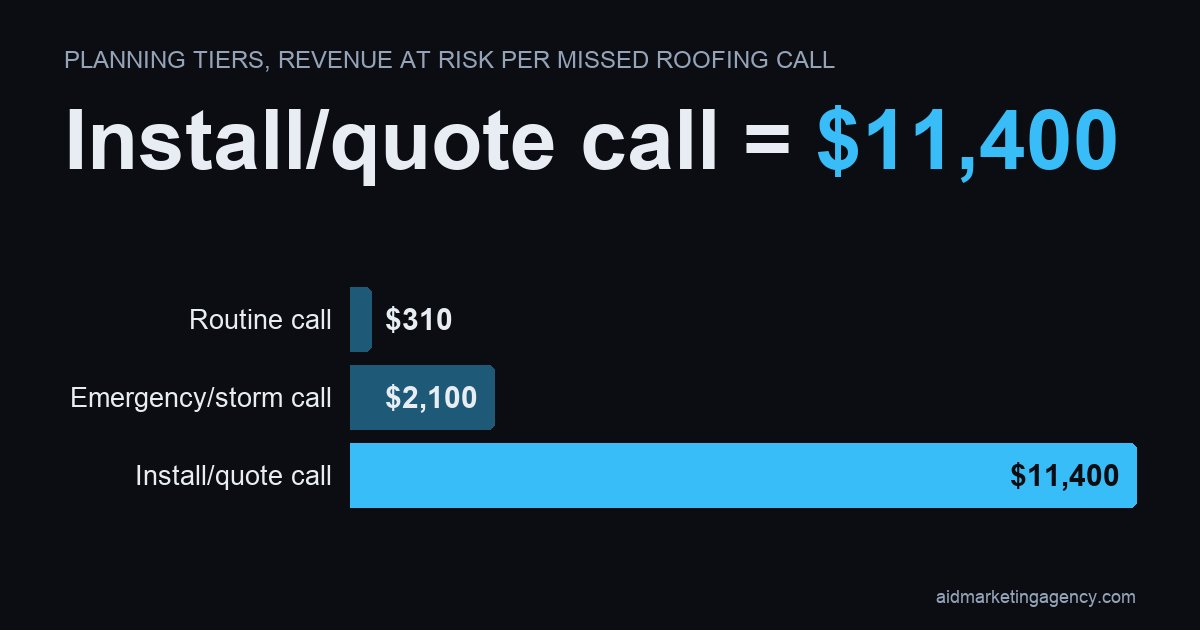
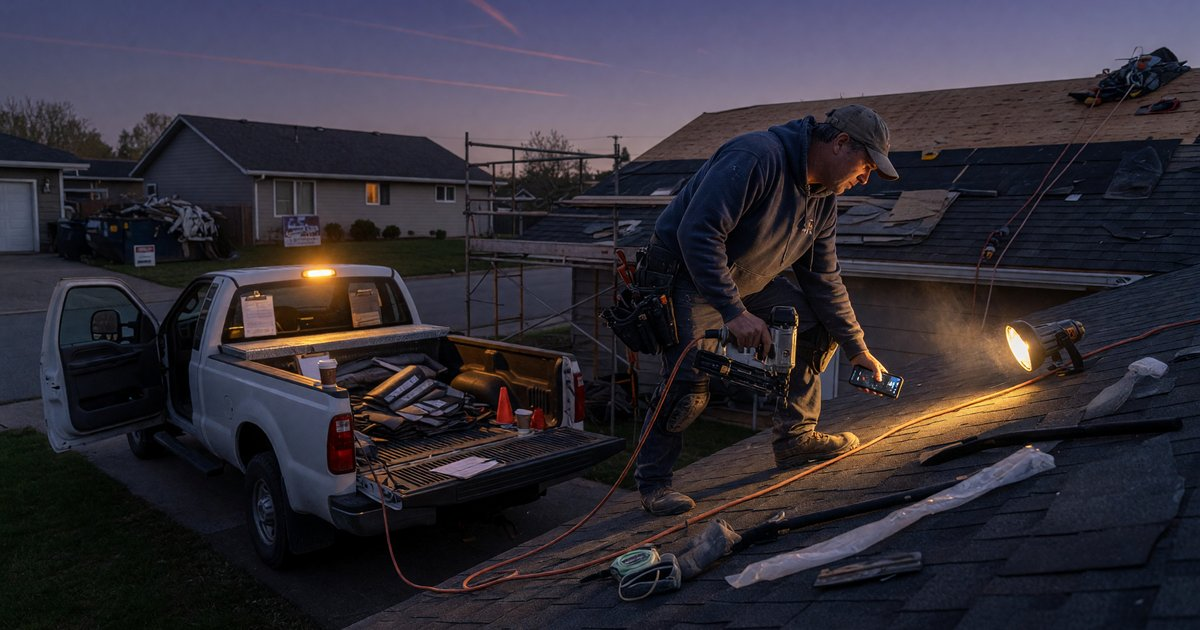
blog: republish a0/a1/a2 with AI imagery + in-body charts
Image doctrine v2 (Ryan 2026-07-22): AI-generated heroes (dark cinematic,
contractor context) replace charts above the H1; charts now render as
in-body figures after their stats sections; all Pixabay stock removed.

diff --git a/blog/a0-ai-speed-to-lead-for-contractors-the-2026-playbo/index.html b/blog/a0-ai-speed-to-lead-for-contractors-the-2026-playbo/index.html
@@ -11,16 +11,16 @@
     <meta property="og:title" content="AI Speed-to-Lead for Contractors: 2026 Playbook">
     <meta property="og:description" content="The 2026 benchmark: respond to leads in under 5 minutes. Here's how AI text-back systems hit sub-30-second replies, and what it actually costs to build one.">
     <meta property="og:url" content="https://aidmarketingagency.com/blog/a0-ai-speed-to-lead-for-contractors-the-2026-playbo">
-    <meta property="og:image" content="https://aidmarketingagency.com/assets/headshots/ryan-casual-rooftop.jpg">
+    <meta property="og:image" content="https://aidmarketingagency.com/assets/blog/a0-ai-speed-to-lead-for-contractors-the-2026-playbo-hero.jpg">
     <meta name="twitter:card" content="summary_large_image">
     <meta name="twitter:title" content="AI Speed-to-Lead for Contractors: 2026 Playbook">
     <meta name="twitter:description" content="The 2026 benchmark: respond to leads in under 5 minutes. Here's how AI text-back systems hit sub-30-second replies, and what it actually costs to build one.">
-    <meta name="twitter:image" content="https://aidmarketingagency.com/assets/headshots/ryan-casual-rooftop.jpg">
+    <meta name="twitter:image" content="https://aidmarketingagency.com/assets/blog/a0-ai-speed-to-lead-for-contractors-the-2026-playbo-hero.jpg">
     <link rel="preconnect" href="https://fonts.googleapis.com">
     <link rel="preconnect" href="https://fonts.gstatic.com" crossorigin>
     <link href="https://fonts.googleapis.com/css2?family=Outfit:wght@400;600;700;800&family=Inter:wght@300;400;500;600;700;800&display=swap" rel="stylesheet">
     <link rel="stylesheet" href="/style.css">
-    <script type="application/ld+json">{"@context": "https://schema.org", "@type": "BlogPosting", "headline": "AI Speed-to-Lead for Contractors: The 2026 Playbook", "description": "The 2026 benchmark: respond to leads in under 5 minutes. Here's how AI text-back systems hit sub-30-second replies, and what it actually costs to build one.", "image": "https://aidmarketingagency.com/assets/headshots/ryan-casual-rooftop.jpg", "author": {"@type": "Person", "name": "Ryan McNally", "jobTitle": "Founder, AID Marketing Agency", "worksFor": {"@type": "Organization", "name": "AID Marketing Agency"}, "sameAs": ["https://www.linkedin.com/in/ryan-mcnally-7930421bb"], "url": "https://aidmarketingagency.com/about-ryan"}, "datePublished": "2026-07-21T20:19:20.204086+00:00", "dateModified": "2026-07-22", "mainEntityOfPage": {"@type": "WebPage", "@id": "https://aidmarketingagency.com/blog/a0-ai-speed-to-lead-for-contractors-the-2026-playbo"}}</script>
+    <script type="application/ld+json">{"@context": "https://schema.org", "@type": "BlogPosting", "headline": "AI Speed-to-Lead for Contractors: The 2026 Playbook", "description": "The 2026 benchmark: respond to leads in under 5 minutes. Here's how AI text-back systems hit sub-30-second replies, and what it actually costs to build one.", "image": "https://aidmarketingagency.com/assets/blog/a0-ai-speed-to-lead-for-contractors-the-2026-playbo-hero.jpg", "author": {"@type": "Person", "name": "Ryan McNally", "jobTitle": "Founder, AID Marketing Agency", "worksFor": {"@type": "Organization", "name": "AID Marketing Agency"}, "sameAs": ["https://www.linkedin.com/in/ryan-mcnally-7930421bb"], "url": "https://aidmarketingagency.com/about-ryan"}, "datePublished": "2026-07-21T20:19:20.204086+00:00", "dateModified": "2026-07-22", "mainEntityOfPage": {"@type": "WebPage", "@id": "https://aidmarketingagency.com/blog/a0-ai-speed-to-lead-for-contractors-the-2026-playbo"}}</script>
 <script type="application/ld+json">{"@context": "https://schema.org", "@type": "FAQPage", "mainEntity": [{"@type": "Question", "name": "What is considered a good speed-to-lead time for contractors in 2026?", "acceptedAnswer": {"@type": "Answer", "text": "Under 5 minutes is the working benchmark for 2026, with the biggest conversion lift happening inside the first 60 seconds (Velocify, 2013). Responding within 1 minute boosts conversion by 391% compared to slower brackets (Velocify, 2013), and leads called within 5 minutes are 21 times more likely to qualify than leads reached after 30 minutes (Lead Response Management Study, 2007). Anything past that 30-minute mark puts you at a steep disadvantage against faster competitors."}}, {"@type": "Question", "name": "Can AI really respond to leads faster than my office staff?", "acceptedAnswer": {"@type": "Answer", "text": "Yes, and it is not close. AI text-back systems are built to deliver a first response within 30 seconds of a lead coming in, day or night, which no human dispatcher can match around the clock. The AI is not replacing your team's judgment on the call, it is making sure the lead is still warm when your team gets to it."}}, {"@type": "Question", "name": "How much does an AI speed-to-lead system cost for a small contracting business?", "acceptedAnswer": {"@type": "Answer", "text": "Cost varies by platform and lead volume, and most of the flashy ROI stats in this niche come from vendors selling the tools, so treat precise figures with suspicion. What the independent research does show is that the conversion gains sit almost entirely in the first minutes of response (Velocify, 2013), and across the contractor accounts we run, most contractors recover the tool's cost within the first few extra jobs it saves from going cold."}}, {"@type": "Question", "name": "Do AI chatbots actually generate new leads, or just respond faster to existing ones?", "acceptedAnswer": {"@type": "Answer", "text": "Mostly the latter, and this is the distinction most contractors miss. AI-driven discovery, meaning homeowners finding a contractor directly through an AI platform, is still a tiny sliver of home service lead volume in our experience across the accounts we run. What AI does very well is capture and speed up leads you already generated through ads, search, or referrals, which is where the real conversion lift shows up."}}, {"@type": "Question", "name": "What happens if I don't implement AI speed-to-lead this year?", "acceptedAnswer": {"@type": "Answer", "text": "You keep competing on price and reputation against contractors who are already responding in seconds instead of hours. Only 38% of contractors report measurable AI impact so far, up from 17% in 2025 (ServiceTitan, 2026), which means the gap between adopters and everyone else is widening fast rather than leveling off. Every quarter you wait is a quarter of leads going to whoever texted back first."}}]}</script>
     <style>
         .post-hero { padding: 7.5rem 0 2rem; }
@@ -121,7 +121,7 @@
 
     <section class="post-hero">
         <div class="container post-hero-inner">
-            
+            <img class="post-hero-img" src="/assets/blog/a0-ai-speed-to-lead-for-contractors-the-2026-playbo-hero.jpg" alt="Editorial photo, contractor tradesman context: AI Speed-to-Lead for Contractors: The 2026 Playbook">
             <h1>AI Speed-to-Lead for Contractors: The 2026 Playbook</h1>
             <p class="post-dates">Published July 21, 2026 &middot; Updated July 22, 2026</p>
         </div>
@@ -135,7 +135,7 @@
                 <p><strong>The speed-to-lead benchmark for contractors in 2026 is under 5 minutes.</strong> Respond within 1 minute and conversion rates jump 391% (<a href="https://natlawreview.com/article/study-reveals-best-contact-strategies-optimal-lead-conversion">Velocify's Ultimate Contact Strategy study, 2013</a>). Wait past 30 minutes and your odds of even qualifying that same lead drop 21 times versus a 5-minute response (<a href="https://www.leadresponsemanagement.org/lrm_study/">Lead Response Management Study, 2007</a>). AI text-back systems now close that window automatically, delivering sub-30-second first responses around the clock without adding a single hire. Still, only 38% of contractors report measurable AI business impact so far (ServiceTitan, 2026), which means most of the trade is still leaving jobs on the table for whoever calls back first. This playbook walks through exactly how to build an AI speed-to-lead system, what it costs, and the one mistake that quietly wrecks more ROI than a slow phone ever did: confusing AI that captures leads faster with AI that supposedly generates them out of thin air.</p>
 <h2 id="why-speed-to-lead-is-the-make-or-break-metric-for-contractor">Why Speed-to-Lead Is the Make-or-Break Metric for Contractors in 2026</h2>
 <p>Here's the plain version: a homeowner with a roof leak or a failed HVAC unit does not fill out one form. They fill out four or five, on four or five different contractor sites, inside about ten minutes. Whoever calls or texts back first usually gets the estimate appointment, and the estimate appointment is usually the job.</p>
-<figure class="post-inbody-img"><img src="/assets/blog/speed-lead-make-a0-1.jpg" alt="Why Speed to Lead Is the Make or Break Metric for Contractors in 2026: Here's the plain version: a homeowner with a roof leak or a failed HVAC unit doe" loading="lazy" width="960" height="540"><figcaption>Photo by suju-foto on Pixabay (https://pixabay.com/photos/squirrel-animal-rodent-wilderness-10379325/)</figcaption></figure>
+<figure class="post-inbody-img"><img src="/assets/blog/a0-ai-speed-to-lead-for-contractors-the-2026-playbo-section-1.jpg" alt="Why Speed to Lead Is the Make or Break Metric for Contractors in 2026: Here's the plain version: a homeowner with a roof leak or a failed HVAC unit doe" loading="lazy" width="960" height="540"></figure>
 
 <p>That is not a hunch, it is a measurable pattern now, and it is the reason speed-to-lead has become the metric contractors track ahead of ad spend, ahead of close rate, sometimes ahead of everything else. In 2026 the working benchmark is under 5 minutes, built on lead-response research that has held up for nearly two decades (Lead Response Management Study, 2007). Anything slower and you are competing on price and reputation alone, against someone who already has the appointment booked.</p>
 <h2 id="the-numbers-391-conversion-lift-21x-qualification-odds-and-t">The Numbers: 391% Conversion Lift, 21x Qualification Odds, and the 5-Minute Rule</h2>
@@ -177,7 +177,7 @@
 <p>These systems connect directly to your phone lines and lead sources and are built specifically to hit that sub-30-second window. Across the contractor accounts we run, wiring the first response this way books meaningfully more jobs off the same lead volume, simply because fewer leads go cold waiting on a human. The AI is not closing the sale. It is making sure the sale is still available to close.</p>
 <h2 id="step-1-auditing-your-current-lead-response-time">Step 1: Auditing Your Current Lead Response Time</h2>
 <p>Before you buy anything, find out where you actually stand. Pull your call logs and form-fill timestamps for the last 30 days and calculate the gap between lead-in and first human contact. Better yet, submit a form on your own website at 9pm on a Tuesday and time your own response.</p>
-<figure class="post-inbody-img"><img src="/assets/blog/step-auditing-current-a0-2.jpg" alt="Step 1: Auditing Your Current Lead Response Time: Before you buy anything, find out where you actually stand." loading="lazy" width="960" height="540"><figcaption>Photo by Feygrace on Pixabay (https://pixabay.com/photos/telecom-tower-technician-sunset-10383550/)</figcaption></figure>
+<figure class="post-inbody-img"><img src="/assets/blog/a0-ai-speed-to-lead-for-contractors-the-2026-playbo-section-2.jpg" alt="Step 1: Auditing Your Current Lead Response Time: Before you buy anything, find out where you actually stand." loading="lazy" width="960" height="540"></figure>
 
 <h3 id="the-speed-to-lead-response-time-calculator">The Speed-to-Lead Response Time Calculator</h3>
 <p>We built a simple framework we use in our own work to help contractors see what slow response is actually costing them. The formula:</p>
@@ -216,7 +216,7 @@
 <p>Start by connecting every lead source into one place: your main line, your web forms, your ad platforms. Build two or three response templates so the first text sounds like a person, not a robot reading a script. Set escalation rules so a human gets pinged the moment a lead replies with real interest. And build separate logic for after-hours, since a huge share of home service leads come in nights and weekends when nobody is at a desk.</p>
 <h2 id="step-4-integrating-ai-speed-to-lead-with-your-crm-and-estima">Step 4: Integrating AI Speed-to-Lead with Your CRM and Estimating Software</h2>
 <p>A text-back system that does not talk to your CRM just creates a second inbox nobody checks. Integration means the lead, the conversation, and the eventual estimate live in one record, so your team is not re-typing the same information three times. This is also where the AI adoption gap tends to open up: in our experience, contractors who only bolt on a chat widget see a fraction of the value of contractors who wire the whole pipeline together.</p>
-<figure class="post-inbody-img"><img src="/assets/blog/step-integrating-speed-a0-3.jpg" alt="Step 4: Integrating AI Speed to Lead with Your CRM and Estimating Software: A text-back system that does not talk to your CRM just creates a second inbox no" loading="lazy" width="960" height="540"><figcaption>Photo by CHAS_ARTIST on Pixabay (https://pixabay.com/photos/handshake-business-deal-10381741/)</figcaption></figure>
+<figure class="post-inbody-img"><img src="/assets/blog/a0-ai-speed-to-lead-for-contractors-the-2026-playbo-section-3.jpg" alt="Step 4: Integrating AI Speed to Lead with Your CRM and Estimating Software: A text-back system that does not talk to your CRM just creates a second inbox no" loading="lazy" width="960" height="540"></figure>
 
 <h2 id="step-5-training-your-team-to-work-alongside-ai-not-against-i">Step 5: Training Your Team to Work Alongside AI (Not Against It)</h2>
 <p>The biggest internal resistance to speed-to-lead tools is not technical, it is territorial. Office staff sometimes read an AI text-back system as a threat to their job instead of a tool that removes the worst part of it: sitting on hold with a lead at 6am. Frame it clearly for your team: AI handles the first response so nothing goes cold, and a human still closes every single deal. The AI's job ends the moment a real conversation starts.</p>
@@ -225,7 +225,7 @@
 <p>None of that is a promise of what your business will see. Run the exposure calculator above against your own job values; that number, not a vendor benchmark, is the one worth planning against.</p>
 <h2 id="ai-for-lead-capture-vs-ai-for-lead-generation-a-critical-dis">AI for Lead Capture vs. AI for Lead Generation: A Critical Distinction</h2>
 <p>This is the mistake that trips up more contractors than any technical setup issue: assuming AI is generating new demand when it is really just responding faster to demand you already paid for.</p>
-<figure class="post-inbody-img"><img src="/assets/blog/lead-capture-lead-a0-4.jpg" alt="AI for Lead Capture vs. AI for Lead Generation: A Critical Distinction: This is the mistake that trips up more contractors than any technical setup issu" loading="lazy" width="960" height="540"><figcaption>Photo by u_oa31csjt4n on Pixabay (https://pixabay.com/photos/farmer-rice-field-water-agriculture-10383138/)</figcaption></figure>
+<figure class="post-inbody-img"><img src="/assets/blog/a0-ai-speed-to-lead-for-contractors-the-2026-playbo-section-4.jpg" alt="AI for Lead Capture vs. AI for Lead Generation: A Critical Distinction: This is the mistake that trips up more contractors than any technical setup issu" loading="lazy" width="960" height="540"></figure>
 
 <p>AI text-back, chatbots, and CRM automation are lead capture tools. They make sure a lead you already generated through ads, referrals, or search does not go cold. That is where the 391% lift actually happens (Velocify, 2013).</p>
 <p>AI as a source of brand-new leads, meaning homeowners discovering and choosing a contractor directly through an AI platform, is a much smaller story so far. In our experience across the accounts we run, AI-driven discovery is still a tiny sliver of home service lead volume. Meanwhile, the businesses that get real results are the ones that layer AI properly into their existing funnel, because the AI is qualifying and speeding up what is already flowing in, not conjuring new demand from nowhere.</p>

diff --git a/blog/a2-ai-receptionist-vs-answering-service-vs-voicemai/index.html b/blog/a2-ai-receptionist-vs-answering-service-vs-voicemai/index.html
@@ -121,7 +121,7 @@
 
     <section class="post-hero">
         <div class="container post-hero-inner">
-            <img class="post-hero-img" src="/assets/blog/a2-ai-receptionist-vs-answering-service-vs-voicemai-hero.jpg" alt="Chart: Share of Inbound Calls That Go Unanswered, by Industry">
+            <img class="post-hero-img" src="/assets/blog/a2-ai-receptionist-vs-answering-service-vs-voicemai-hero.jpg" alt="Editorial photo, contractor tradesman context: AI Receptionist vs Answering Service vs Voicemail: 7 Differences That Decide Who Books the Job">
             <h1>AI Receptionist vs Answering Service vs Voicemail: 7 Differences That Decide Who Books the Job</h1>
             <p class="post-dates">Published July 21, 2026 &middot; Updated July 22, 2026</p>
         </div>
@@ -136,7 +136,7 @@
 <p>Below are the seven differences that actually decide who gets the booking, plus a straight comparison table, the numbers behind it, and where a mix of both tools beats either one alone.</p>
 <h2 id="the-real-cost-of-a-missed-call-for-contractors">The Real Cost of a Missed Call for Contractors</h2>
 <p>Here is the part most contractors never actually calculate: home service businesses miss about 27 percent of their inbound calls (<a href="https://www.invoca.com/blog/how-many-phone-calls-are-you-missing">Invoca, 2023</a>), and the average missed call costs a home service business around $1,200 in lost revenue (Housecall Pro, 2026). Every one of those is a homeowner who called someone, and if you did not pick up, there is a real chance they called your competitor next.</p>
-<figure class="post-inbody-img"><img src="/assets/blog/cost-missed-contractors-a2-1.jpg" alt="The Real Cost of a Missed Call for Contractors: Here is the part most contractors never actually calculate: home service busines" loading="lazy" width="960" height="540"><figcaption>Photo by erwinbosman on Pixabay (https://pixabay.com/photos/gas-station-red-car-fuel-nozzle-[phone redacted]/)</figcaption></figure>
+<figure class="post-inbody-img"><img src="/assets/blog/a2-ai-receptionist-vs-answering-service-vs-voicemai-section-1.jpg" alt="The Real Cost of a Missed Call for Contractors: Here is the part most contractors never actually calculate: home service busines" loading="lazy" width="960" height="540"></figure>
 
 <p>The phone is still the front door for most trades. A truck can be booked solid and a crew can be running smooth, and none of it matters if the call that would have filled next Tuesday went to voicemail and never got a callback.</p>
 <p>In our experience building call handling systems for service businesses, the pattern is almost always the same: it is never one dramatic missed call that hurts, it is the slow leak of five or six a week that never shows up on a P&amp;L line. That is the real cost, and it is why this comparison matters more than most contractors think.</p>
@@ -152,7 +152,7 @@
 <p>Every extra step is a place a lead can fall out. AI removes steps. Answering services remove one. Voicemail removes none.</p>
 <h2 id="difference-2-response-speed">Difference #2: Response Speed</h2>
 <p>An AI receptionist answers in one to two rings, generally under three seconds, with no hold music and no queue. The caller gets a real answer immediately, every single time.</p>
-<figure class="post-inbody-img"><img src="/assets/blog/difference-response-speed-a2-2.jpg" alt="Difference 2: Response Speed: An AI receptionist answers in one to two rings, generally under three seconds, w" loading="lazy" width="960" height="540"><figcaption>Photo by Feygrace on Pixabay (https://pixabay.com/photos/telecom-tower-technician-sunset-10383550/)</figcaption></figure>
+<figure class="post-inbody-img"><img src="/assets/blog/a2-ai-receptionist-vs-answering-service-vs-voicemai-section-2.jpg" alt="Difference 2: Response Speed: An AI receptionist answers in one to two rings, generally under three seconds, w" loading="lazy" width="960" height="540"></figure>
 
 <p>An answering service depends on staffing. If the call center is busy or short-staffed, callers can sit on hold or get routed to whoever is free, which is not always someone who knows your business well.</p>
 <p>Voicemail forces the caller to wait through your full greeting before they can even start talking, and by then a chunk of callers have already hung up.</p>
@@ -166,7 +166,7 @@
 <p>Voicemail is free, but free is not the same as cheap. The opportunity cost of missed and unqualified leads tends to dwarf whatever you saved on the phone system: at the $1,200-per-missed-call home services average (Housecall Pro, 2026), one saved call a month more than covers the subscription.</p>
 <h2 id="difference-5-lead-qualification">Difference #5: Lead Qualification</h2>
 <p>A good AI receptionist does not just answer, it asks: what's the issue, how urgent is it, what's the address, has this happened before. It filters spam and low-value calls before they ever hit your calendar.</p>
-<figure class="post-inbody-img"><img src="/assets/blog/difference-lead-qualification-a2-3.jpg" alt="Difference 5: Lead Qualification: A good AI receptionist does not just answer, it asks: what's the issue, how urge" loading="lazy" width="960" height="540"><figcaption>Photo by Alexas_Fotos on Pixabay (https://pixabay.com/photos/blue-flower-delphinium-nature-10366696/)</figcaption></figure>
+<figure class="post-inbody-img"><img src="/assets/blog/a2-ai-receptionist-vs-answering-service-vs-voicemai-section-3.jpg" alt="Difference 5: Lead Qualification: A good AI receptionist does not just answer, it asks: what's the issue, how urge" loading="lazy" width="960" height="540"></figure>
 
 <p>An answering service mostly passes along raw messages. The agent on the phone is not trained on your specific trade, so they capture what the caller says without much filtering.</p>
 <p>Voicemail obviously qualifies nothing. A wrong number, a solicitation call, and a real emergency all sound the same in an inbox until you personally listen to each one.</p>
@@ -175,6 +175,8 @@
 <p>That gap is the whole argument in one line. If about a quarter of your calls are not getting answered live today, a chunk of your marketing spend is already going to waste before a single lead reaches your calendar.</p>
 <h2 id="difference-7-best-use-case-for-each-option">Difference #7: Best Use Case for Each Option</h2>
 <p>AI receptionists are built for the calls that repeat all day: scheduling, pricing questions, service requests, and after-hours emergencies where someone just needs a fast, accurate answer. In our experience building call handling for the trades, HVAC, plumbing, and general home services are exactly where adoption is moving fastest, because their call volume is repetitive, urgent, and expensive to miss.</p>
+<figure class="post-inbody-img"><img src="/assets/blog/a2-ai-receptionist-vs-answering-service-vs-voicemai-section-4.jpg" alt="Difference 7: Best Use Case for Each Option: AI receptionists are built for the calls that repeat all day: scheduling, pricin" loading="lazy" width="960" height="540"></figure>
+
 <p>Answering services still hold an edge on empathy-heavy calls: an upset customer with a complaint, a complicated insurance question, a caller who explicitly wants to talk to a person. Judgment calls are still a human strength.</p>
 <p>Voicemail is the fallback of last resort, useful only when nothing else is running, and it should not be the plan.</p>
 <h2 id="comparison-table-ai-receptionist-vs-answering-service-vs-voi">Comparison Table: AI Receptionist vs Answering Service vs Voicemail</h2>
@@ -236,12 +238,12 @@
 <ul>
 <li>Home service businesses miss about 27 percent of inbound calls; dental practices also miss 27 percent, insurance companies miss 39 percent, and telecoms miss 45 percent (<a href="https://www.invoca.com/blog/how-many-phone-calls-are-you-missing">Invoca, 2023</a>).</li>
 <li>The average missed call costs a home service business about $1,200 in lost revenue (Housecall Pro, 2026).</li>
-<li>Th
-<figure class="post-inbody-img"><img src="/assets/blog/key-statistics-contractors-a2-4.jpg" alt="Key Statistics Contractors Should Know: Home service businesses miss about 27 percent of inbound calls; dental practices" loading="lazy" width="960" height="540"><figcaption>Photo by CHAS_ARTIST on Pixabay (https://pixabay.com/photos/laptop-charts-desk-coffee-cup-10381734/)</figcaption></figure>
-e odds of qualifying a lead drop 21 times between a 5-minute response and a 30-minute response (<a href="https://www.leadresponsemanagement.org/lrm_study/">Lead Response Management Study, 2007</a>).</li>
+<li>The odds of qualifying a lead drop 21 times between a 5-minute response and a 30-minute response (<a href="https://www.leadresponsemanagement.org/lrm_study/">Lead Response Management Study, 2007</a>).</li>
 <li>Calling a new lead within one minute lifts conversion by 391 percent (Velocify, The Ultimate Contact Strategy, 2013).</li>
 <li>Based on our own 2026 survey of published vendor pricing, AI receptionists run $25 to $300 a month versus $135 to $1,950 for live answering services, which is where the 60 to 80 percent savings figure comes from.</li>
 </ul>
+
+<figure class="post-inbody-img post-chart"><img src="/assets/blog/a2-ai-receptionist-vs-answering-service-vs-voicemai-chart.jpg" alt="Bar chart: Share of Inbound Calls That Go Unanswered, by Industry. Home services 27%, Dental 27%, Insurance 39%, Telecom 45%." loading="lazy" width="1200" height="630"><figcaption>Share of Inbound Calls That Go Unanswered, by Industry. Data sources cited in this article (aidmarketingagency.com).</figcaption></figure>
 <h2 id="when-a-hybrid-model-ai-plus-human-makes-sense">When a Hybrid Model (AI Plus Human) Makes Sense</h2>
 <p>For a lot of contractors, the smartest setup is not AI or human, it is AI first and a human as the escalation path. The AI receptionist takes every call, books the routine stuff straight into the calendar, and flags anything emotional, unusual, or high-stakes to a real person on your team.</p>
 <p>This matters most for businesses with mixed call volume: a plumber fielding both simple drain clogs and a genuinely upset customer over a failed job needs both tools working together, not one replacing the other entirely.</p>

diff --git a/blog/a1-what-a-missed-call-actually-costs-a-roofer-in-20/index.html b/blog/a1-what-a-missed-call-actually-costs-a-roofer-in-20/index.html
@@ -121,7 +121,7 @@
 
     <section class="post-hero">
         <div class="container post-hero-inner">
-            <img class="post-hero-img" src="/assets/blog/a1-what-a-missed-call-actually-costs-a-roofer-in-20-hero.jpg" alt="Chart: Planning Tiers, Revenue at Risk Per Missed Roofing Call">
+            <img class="post-hero-img" src="/assets/blog/a1-what-a-missed-call-actually-costs-a-roofer-in-20-hero.jpg" alt="Editorial photo, roofing contractor context: What a Missed Call Actually Costs a Roofer in 2026 (the math, with our field numbers)">
             <h1>What a Missed Call Actually Costs a Roofer in 2026 (the math, with our field numbers)</h1>
             <p class="post-dates">Published July 21, 2026 &middot; Updated July 22, 2026</p>
         </div>
@@ -136,8 +136,6 @@
 <p>That number sounds dramatic until you run it against your own call volume. Below, we break down where the losses actually come from, why roofing sits at the top of the exposure list, and a worksheet you can use to build your own number in about five minutes.</p>
 <h2 id="the-real-numbers">The Real Numbers: What Roofers Lose Per Missed Call</h2>
 <p>Not every missed call costs the same. A homeowner calling about a small repair is a different loss than an adjuster calling about a full storm claim. Nobody publishes a clean per-call loss table for roofing, so we built our own planning tiers from the ticket sizes across the roofing accounts we run, anchored to published job-cost benchmarks like the $9,604 national average roof replacement (Angi, 2026). Roofing comes out ahead of nearly every other trade at each tier.</p>
-<figure class="post-inbody-img"><img src="/assets/blog/numbers-roofers-lose-a1-1.jpg" alt="The Real Numbers: What Roofers Lose Per Missed Call: Not every missed call costs the same." loading="lazy" width="960" height="540"><figcaption>Photo by neelam279 on Pixabay (https://pixabay.com/photos/sparrow-roof-blue-sky-bird-nature-[phone redacted]/)</figcaption></figure>
-
 <table>
 <thead>
 <tr>
@@ -166,12 +164,16 @@
 </table>
 <p>(These are AID planning tiers, not a published per-call study. Use them as a directional range and swap in your own ticket sizes.)</p>
 <p>The pattern is consistent: the bigger the ticket, the more a missed ring costs, and roofing tickets run big across every category, from a single-slope patch to a full tear-off after a hailstorm.</p>
+
+<figure class="post-inbody-img post-chart"><img src="/assets/blog/a1-what-a-missed-call-actually-costs-a-roofer-in-20-chart.jpg" alt="Bar chart: Planning Tiers, Revenue at Risk Per Missed Roofing Call. Routine call $310, Emergency/storm call $2,100, Install/quote call $11,400." loading="lazy" width="1200" height="630"><figcaption>Planning Tiers, Revenue at Risk Per Missed Roofing Call. Data sources cited in this article (aidmarketingagency.com).</figcaption></figure>
 <h2 id="why-roofing-is-expensive">Why Roofing Is the Most Expensive Trade to Miss a Call In</h2>
 <p>HVAC and plumbing calls tend to be recurring, so a missed call today often just becomes a callback tomorrow. Roofing doesn't work that way. A quote call is usually a one-time decision, the homeowner or property manager is calling two or three contractors in the same afternoon, and whoever gets back to them first usually gets the job. That's why the $11,400 install/quote figure sits second only to remodeling in our planning tiers, well above HVAC and plumbing quote calls.</p>
+<figure class="post-inbody-img"><img src="/assets/blog/a1-what-a-missed-call-actually-costs-a-roofer-in-20-section-1.jpg" alt="Why Roofing Is the Most Expensive Trade to Miss a Call In: HVAC and plumbing calls tend to be recurring, so a missed call today often just" loading="lazy" width="960" height="540"></figure>
+
 <p>Storm work raises the stakes further. An emergency call after a hailstorm or high wind event often comes with an insurance clock already running, and the homeowner is comparing bids under time pressure. Miss that call and you're not just out one job, you're out of the conversation entirely.</p>
 <h2 id="the-math">The Math: Missed Calls x Job Value x 52 Weeks x Close Rate</h2>
 <p>The true cost comes down to a simple formula:</p>
-<figure class="post-inbody-img"><img src="/assets/blog/math-missed-job-a1-2.jpg" alt="The Math: Missed Calls x Job Value x 52 Weeks x Close Rate: The true cost comes down to a simple formula: Weekly Missed Calls x Average Job" loading="lazy" width="960" height="540"><figcaption>Photo by Feygrace on Pixabay (https://pixabay.com/photos/telecom-tower-technician-sunset-10383550/)</figcaption></figure>
+<figure class="post-inbody-img"><img src="/assets/blog/a1-what-a-missed-call-actually-costs-a-roofer-in-20-section-2.jpg" alt="The Math: Missed Calls x Job Value x 52 Weeks x Close Rate: The true cost comes down to a simple formula: Weekly Missed Calls x Average Job" loading="lazy" width="960" height="540"></figure>
 
 <p><strong>Weekly Missed Calls x Average Job Value x 52 Weeks x Close Rate</strong></p>
 <p>The industry per-call averages above already bake in a typical close rate, but your business isn't typical, your job values and close rate are yours. Here's an illustrative example, plug in your own numbers to see where you land:</p>
@@ -184,7 +186,7 @@
 <p>If you want the same math laid out for a different trade, we've run <a href="/blog/hvac-missed-call-cost">the numbers for HVAC companies</a> and <a href="/blog/plumbing-missed-call-cost">the numbers for plumbers</a> as well, since the underlying formula is the same even though the ticket sizes differ.</p>
 <h2 id="the-78-percent-problem">The First-Response Problem: Why the First Contractor to Answer Wins the Job</h2>
 <p>Here's the part that makes missed calls especially expensive in roofing: the first contractor to respond usually wins the job. The MIT-affiliated <a href="https://www.leadresponsemanagement.org/lrm_study/">Lead Response Management Study</a> found the odds of qualifying a lead drop 21 times between a 5-minute response and a 30-minute response (Oldroyd, 2007). Not the cheapest bid, not the most reviews, the fastest response.</p>
-<figure class="post-inbody-img"><img src="/assets/blog/first-response-problem-a1-3.jpg" alt="The First Response Problem: Why the First Contractor to Answer Wins the Job: Here's the part that makes missed calls especially expensive in roofing: the fir" loading="lazy" width="960" height="540"><figcaption>Photo by Alexas_Fotos on Pixabay (https://pixabay.com/photos/blue-flower-delphinium-nature-10366696/)</figcaption></figure>
+<figure class="post-inbody-img"><img src="/assets/blog/a1-what-a-missed-call-actually-costs-a-roofer-in-20-section-3.jpg" alt="The First Response Problem: Why the First Contractor to Answer Wins the Job: Here's the part that makes missed calls especially expensive in roofing: the fir" loading="lazy" width="960" height="540"></figure>
 
 <p>Making it worse, most callers who hit voicemail simply don't leave one, in our experience across the accounts we run. A missed call isn't a delayed lead, it's usually a gone lead. The homeowner has already dialed the next name on their list before your callback even happens.</p>
 <h2 id="storm-season-math">Storm Season Math: How Missed Calls Balloon Fastest</h2>
@@ -192,7 +194,7 @@
 <p>That math makes sense once you picture the scenario: a hailstorm hits, phones start ringing from every property in the neighborhood within a few hours, and every one of those calls is a full-value install or claim job, not a routine tune-up. The volume spike and the ticket size spike hit at the same time, which is exactly why storm season is where missed call losses stop being an annoyance and start being a real budget line.</p>
 <h2 id="calculate-your-own">Calculate Your Own Missed Call Cost: A Step by Step Worksheet</h2>
 <p>Run this on your own numbers before you decide whether it's worth fixing.</p>
-<figure class="post-inbody-img"><img src="/assets/blog/calculate-own-missed-a1-4.jpg" alt="Calculate Your Own Missed Call Cost: A Step by Step Worksheet: Run this on your own numbers before you decide whether it's worth fixing." loading="lazy" width="960" height="540"><figcaption>Photo by u_oa31csjt4n on Pixabay (https://pixabay.com/photos/farmer-rice-field-water-agriculture-[phone redacted]/)</figcaption></figure>
+<figure class="post-inbody-img"><img src="/assets/blog/a1-what-a-missed-call-actually-costs-a-roofer-in-20-section-4.jpg" alt="Calculate Your Own Missed Call Cost: A Step by Step Worksheet: Run this on your own numbers before you decide whether it's worth fixing." loading="lazy" width="960" height="540"></figure>
 
 <p><strong>Step 1: Count your weekly missed calls.</strong> Pull it from your phone system or CRM log for a real week, not a guess. If you don't track it, start from Invoca's 27% unanswered-call benchmark (Invoca, 2023) applied to your weekly call volume; for a typical operation that lands at 5 to 10 missed calls a week.</p>
 <p><strong>Step 2: Set your average job value.</strong> Use your actual average ticket across routine, emergency, and install jobs for the last 12 months.</p>